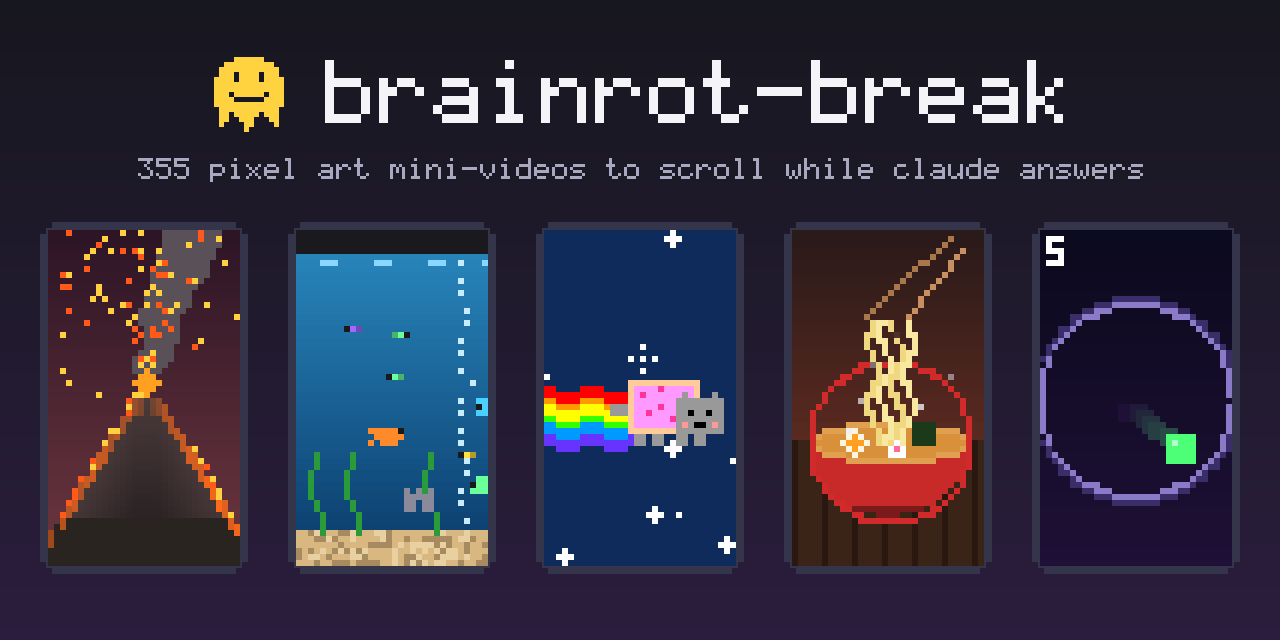
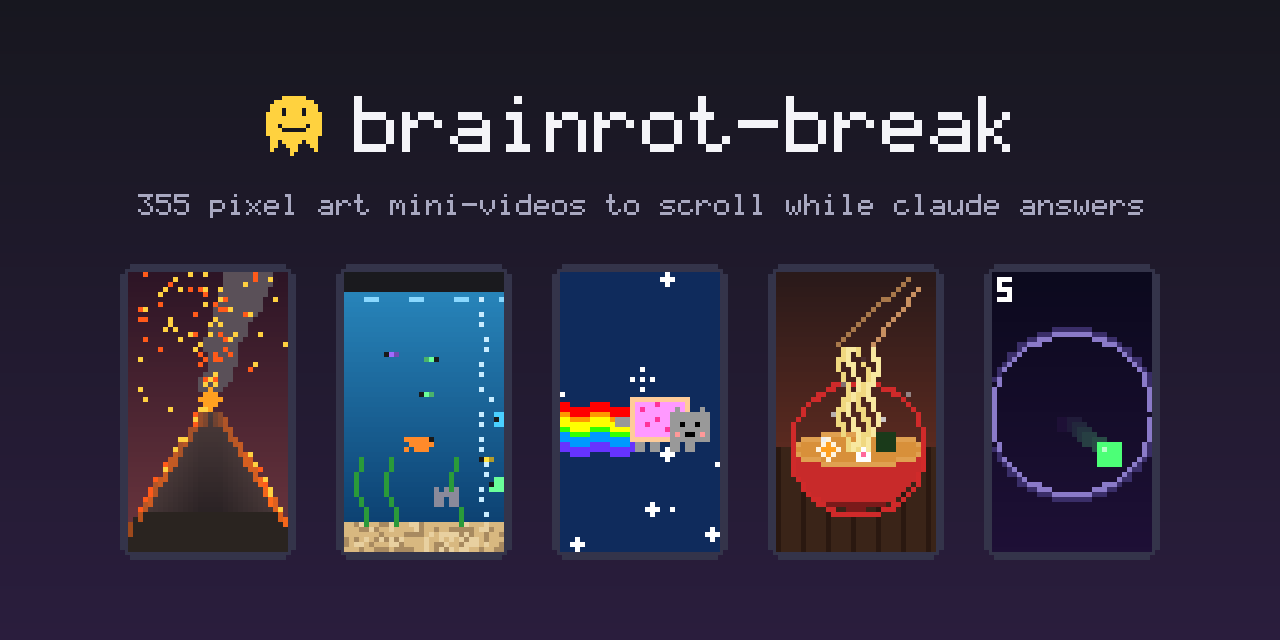
fix(site): keep the social preview inside github's safe area
GitHub crops the edges of a repository's social preview and its template
keeps everything that matters 80 px inside them. The title sat at 52 px
from the top and the clips 40 px from the sides, so the top of the title
was cut off. Everything now fits the safe area, and the script stops if
it would spill out again.

Changed region(s): [[0.0312, 0.0938, 0.9688, 0.9062], [0.5, 0.7812, 0.5312, 0.8125], [0.5, 0.5312, 0.5312, 0.5625]]

diff --git a/tools/social.ts b/tools/social.ts
@@ -15,6 +15,9 @@ import { png } from './png'
 
 const OW = 1280
 const OH = 640
+// GitHub crops the edges: its template keeps everything that matters 80 px
+// inside them.
+const SAFE = 80
 const W = 32
 const H = 56
 
@@ -118,23 +121,24 @@ for (let y = 0; y < OH; y++) {
 
 // The title, the smiley before it, the tagline under it.
 const title = 'brainrot-break'
-const TS = 9
-const SS = 5
-const titleW = 16 * SS + 36 + textWidth(title, TS)
+const TS = 8
+const SS = 4
+const titleW = 16 * SS + 28 + textWidth(title, TS)
 const tx = Math.round((OW - titleW) / 2)
-smiley(tx, 52, SS)
-write(title, tx + 16 * SS + 36, 60, TS, TITLE)
+smiley(tx, SAFE + 12, SS)
+write(title, tx + 16 * SS + 28, SAFE + 16, TS, TITLE)
 const tagline = `${Object.keys(MAKERS).length} pixel art mini-videos to scroll while claude answers`
-write(tagline, Math.round((OW - textWidth(tagline, 3)) / 2), 158, 3, TAGLINE)
+write(tagline, Math.round((OW - textWidth(tagline, 3)) / 2), SAFE + 114, 3, TAGLINE)
 
 // The clips, each in a phone frame.
-const CS = 6
+const CS = 5
 const PAD = 8
 const GAP = 40
 const PW = W * CS + 2 * PAD
 const PH = H * CS + 2 * PAD
 const rowX = Math.round((OW - (CLIPS.length * PW + (CLIPS.length - 1) * GAP)) / 2)
-const rowY = 222
+const rowY = OH - SAFE - PH
+if (rowX < SAFE || tx < SAFE) throw new Error('the clips or the title spill out of the safe area: fewer clips, or smaller')
 for (const [i, [kind, frame]] of CLIPS.entries()) {
   const x0 = rowX + i * (PW + GAP)
   // a frame with its corners cut, two steps deep
